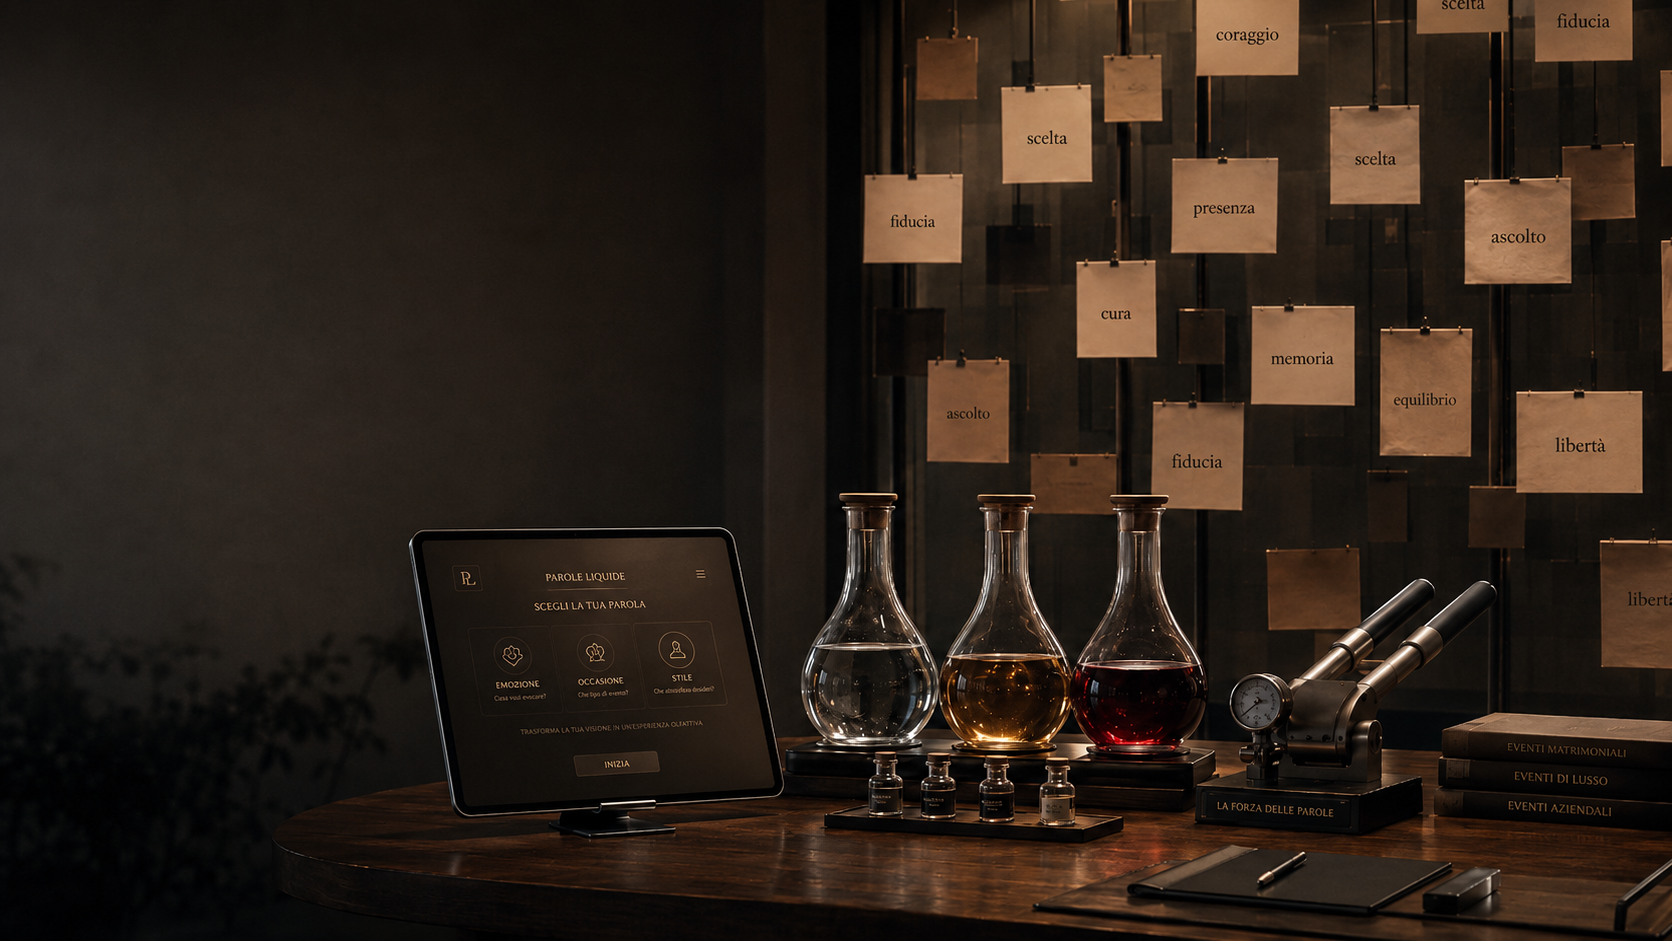
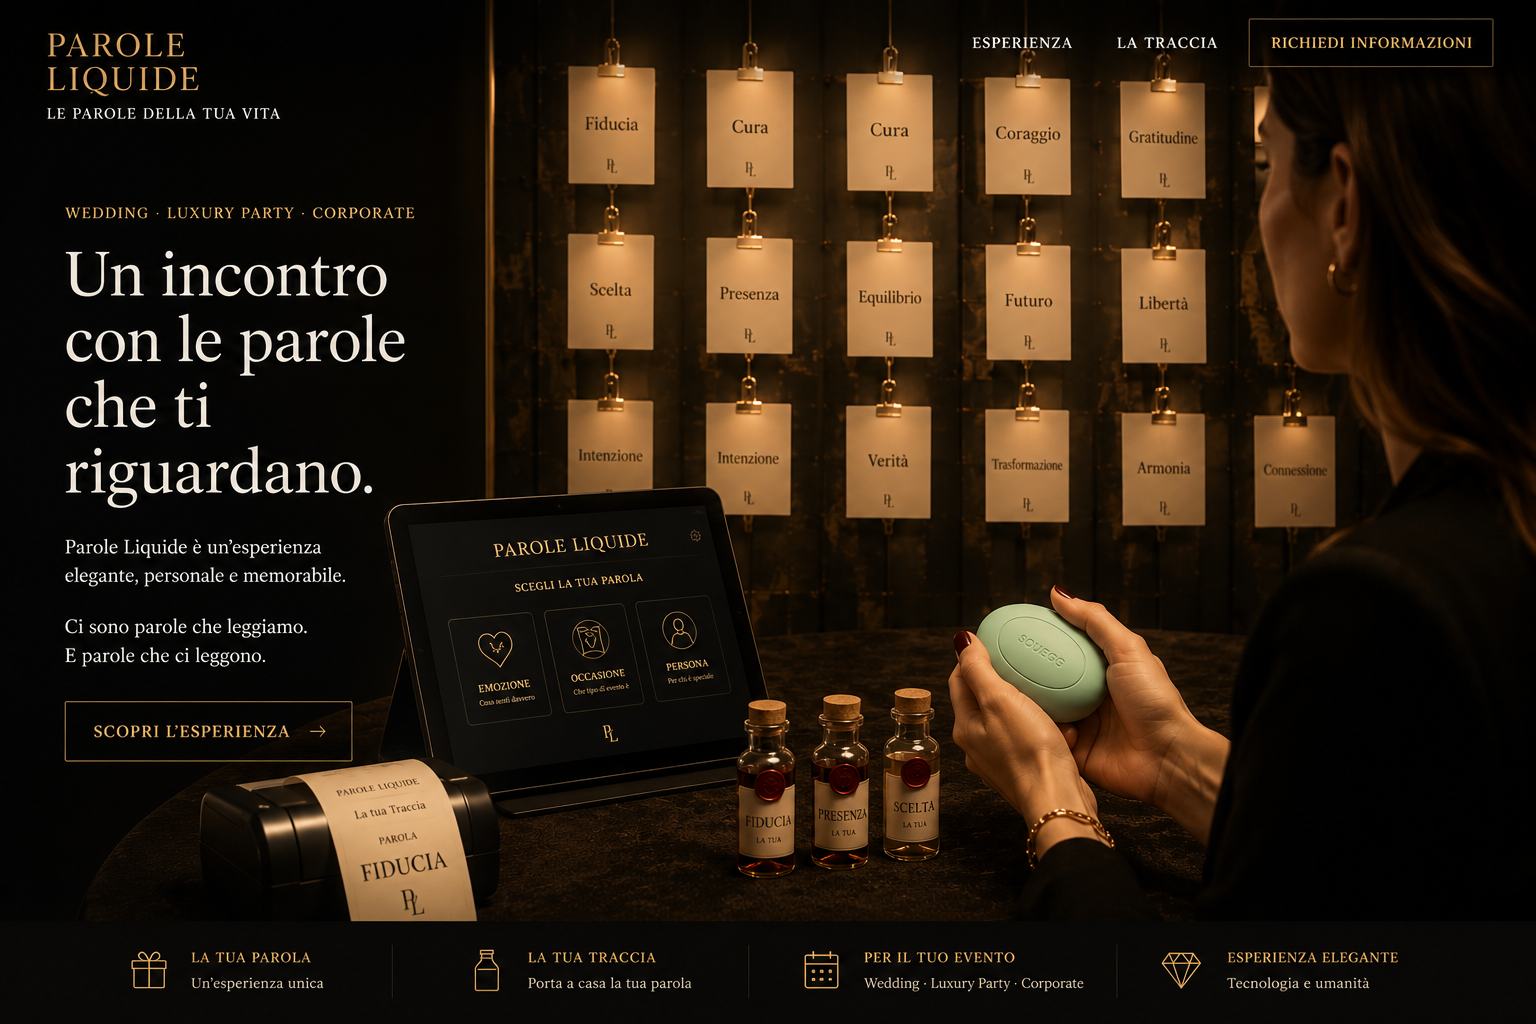
Add files via upload

diff --git a/index.html b/index.html
@@ -8,28 +8,21 @@
   <style>
     :root{
       --bg:#090806;
-      --bg-soft:#11100d;
       --paper:#f3ead9;
       --muted:#cfbea1;
       --gold:#d8b66a;
-      --gold-2:#b98c37;
       --line:rgba(216,182,106,.24);
       --card:rgba(255,255,255,.03);
     }
     *{box-sizing:border-box}
     html{scroll-behavior:smooth}
-    body{
-      margin:0;
-      background:var(--bg);
-      color:var(--paper);
-      font-family:Georgia,"Times New Roman",serif;
-    }
+    body{margin:0;background:var(--bg);color:var(--paper);font-family:Georgia,"Times New Roman",serif}
     img{max-width:100%;display:block}
     a{color:inherit;text-decoration:none}
     .wrap{max-width:1180px;margin:0 auto;padding:0 24px}
     header{
-      position:fixed; inset:0 0 auto 0; z-index:20;
-      background:linear-gradient(180deg, rgba(9,8,6,.92), rgba(9,8,6,.55), transparent);
+      position:fixed;inset:0 0 auto 0;z-index:20;
+      background:linear-gradient(180deg,rgba(9,8,6,.92),rgba(9,8,6,.5),transparent);
       padding:22px 0 34px;
     }
     .nav{display:flex;align-items:center;justify-content:space-between;gap:20px}
@@ -38,35 +31,29 @@
     .navlinks{display:flex;gap:24px;align-items:center;font-size:12px;letter-spacing:.12em;text-transform:uppercase;color:var(--muted)}
     .navlinks a:hover{color:var(--gold)}
     .btn{
-      display:inline-flex;align-items:center;justify-content:center;
-      min-height:46px;padding:0 20px;border:1px solid var(--line);
-      color:var(--gold);font-size:12px;letter-spacing:.12em;text-transform:uppercase;
-      background:rgba(9,8,6,.42)
+      display:inline-flex;align-items:center;justify-content:center;min-height:46px;padding:0 20px;
+      border:1px solid var(--line);color:var(--gold);font-size:12px;letter-spacing:.12em;
+      text-transform:uppercase;background:rgba(9,8,6,.42);cursor:pointer
     }
-    .btn.primary{background:linear-gradient(135deg, #dfc57c, #ae7f2e); color:#120f0a; border-color:transparent; font-weight:700}
+    .btn.primary{background:linear-gradient(135deg,#dfc57c,#ae7f2e);color:#120f0a;border-color:transparent;font-weight:700}
     .hero{
       min-height:100vh;
       background:
-        linear-gradient(90deg, rgba(9,8,6,.94) 0%, rgba(9,8,6,.82) 30%, rgba(9,8,6,.38) 56%, rgba(9,8,6,.72) 100%),
+        linear-gradient(90deg,rgba(9,8,6,.88) 0%,rgba(9,8,6,.58) 32%,rgba(9,8,6,.10) 68%,rgba(9,8,6,.34) 100%),
         url('hero-postazione.png') center center / cover no-repeat;
-      display:flex; align-items:center;
+      display:flex;align-items:center;
     }
-    .hero-inner{padding:140px 0 90px; max-width:520px}
-    h1{margin:0; font-size:clamp(44px, 6vw, 78px); line-height:1.02; font-weight:400}
-    .lead{margin:28px 0 0; font-size:22px; line-height:1.6; color:var(--muted)}
+    .hero-inner{padding:140px 0 90px;max-width:520px}
+    h1{margin:0;font-size:clamp(44px,6vw,78px);line-height:1.02;font-weight:400}
+    .eyebrow{color:var(--gold);font-size:12px;letter-spacing:.16em;text-transform:uppercase;margin-bottom:14px}
+    .lead{margin:28px 0 0;font-size:22px;line-height:1.6;color:var(--muted)}
     .cta{display:flex;flex-wrap:wrap;gap:12px;margin-top:34px}
     section{padding:88px 0;border-top:1px solid var(--line)}
     .grid-2{display:grid;grid-template-columns:1fr 1fr;gap:56px;align-items:center}
-    .eyebrow{color:var(--gold);font-size:12px;letter-spacing:.16em;text-transform:uppercase;margin-bottom:14px}
-    h2{margin:0;font-size:clamp(34px, 4.4vw, 58px);line-height:1.08;font-weight:400}
+    h2{margin:0;font-size:clamp(34px,4.4vw,58px);line-height:1.08;font-weight:400}
     .copy{font-size:21px;line-height:1.65;color:var(--muted)}
     .copy p:first-child{margin-top:0}
-    .visual{
-      border:1px solid var(--line);
-      background:var(--card);
-      padding:12px;
-    }
-    .visual img{width:100%;height:auto}
+    .visual{border:1px solid var(--line);background:var(--card);padding:12px}
     .steps{display:grid;grid-template-columns:repeat(4,1fr);gap:18px;margin-top:30px}
     .step{border-top:1px solid var(--line);padding-top:18px}
     .step b{display:block;color:var(--gold);font-size:12px;letter-spacing:.14em;text-transform:uppercase;font-weight:400;margin-bottom:12px}
@@ -74,146 +61,140 @@
     .contact{background:#0d0c0a}
     form{display:grid;gap:14px}
     input,textarea,select{
-      width:100%;
-      background:rgba(255,255,255,.04);
-      border:1px solid var(--line);
-      color:var(--paper);
-      padding:15px 14px;
-      font:16px Georgia,"Times New Roman",serif;
-      outline:none;
+      width:100%;background:rgba(255,255,255,.04);border:1px solid var(--line);color:var(--paper);
+      padding:15px 14px;font:16px Georgia,"Times New Roman",serif;outline:none
     }
     textarea{min-height:130px;resize:vertical}
-    input::placeholder, textarea::placeholder{color:#97866a}
+    input::placeholder,textarea::placeholder{color:#97866a}
     .fine{font-size:12px;line-height:1.5;color:#9f8e73}
     footer{padding:28px 0;border-top:1px solid var(--line);color:#98886f;font-size:14px}
     .foot{display:flex;justify-content:space-between;gap:16px;flex-wrap:wrap}
-    @media (max-width: 980px){
+    @media(max-width:980px){
       header{position:static;padding:18px 0}
       .navlinks{display:none}
-      .hero{min-height:auto}
+      .hero{min-height:auto;background-position:center center}
       .hero-inner{padding:58px 0 64px}
       .grid-2{grid-template-columns:1fr;gap:28px}
       section{padding:62px 0}
       .steps{grid-template-columns:1fr 1fr}
     }
-    @media (max-width: 560px){
+    @media(max-width:560px){
       .wrap{padding:0 18px}
       .lead{font-size:19px}
       .copy{font-size:18px}
       .steps{grid-template-columns:1fr}
       .cta{flex-direction:column;align-items:flex-start}
-      .btn{width:auto}
     }
   </style>
 </head>
 <body>
-  <header>
-    <div class="wrap nav">
-      <a href="#top" class="brand">Parole<br>Liquide<small>Le parole della tua vita</small></a>
-      <nav class="navlinks">
-        <a href="#esperienza">Esperienza</a>
-        <a href="#boccetta">La Traccia</a>
-        <a href="#contatti" class="btn">Richiedi informazioni</a>
-      </nav>
+<header>
+  <div class="wrap nav">
+    <a href="#top" class="brand">Parole<br>Liquide<small>Le parole della tua vita</small></a>
+    <nav class="navlinks">
+      <a href="#esperienza">Esperienza</a>
+      <a href="#boccetta">La Traccia</a>
+      <a href="#contatti" class="btn">Richiedi informazioni</a>
+    </nav>
+  </div>
+</header>
+
+<main id="top">
+  <section class="hero">
+    <div class="wrap">
+      <div class="hero-inner">
+        <div class="eyebrow">Wedding · Luxury party · Corporate</div>
+        <h1>Un incontro<br>con le parole<br>che ti riguardano.</h1>
+        <div class="lead">
+          Parole Liquide è un'esperienza elegante, personale e memorabile.
+          <br><br>
+          Ci sono parole che leggiamo. E parole che ci leggono.
+        </div>
+        <div class="cta">
+          <a href="#contatti" class="btn primary">Richiedi informazioni</a>
+          <a href="#esperienza" class="btn">Scopri l'esperienza</a>
+        </div>
+      </div>
     </div>
-  </header>
+  </section>
 
-  <main id="top">
-    <section class="hero">
-      <div class="wrap">
-        <div class="hero-inner">
-          <div class="eyebrow">Wedding · Luxury party · Corporate</div>
-          <h1>Un incontro<br>con le parole<br>che ti riguardano.</h1>
-          <div class="lead">
-            Parole Liquide è un'esperienza elegante, personale e memorabile.
-            <br><br>
-            Ci sono parole che leggiamo. E parole che ci leggono.
-          </div>
-          <div class="cta">
-            <a href="#contatti" class="btn primary">Richiedi informazioni</a>
-            <a href="#esperienza" class="btn">Scopri l'esperienza</a>
-          </div>
+  <section id="esperienza">
+    <div class="wrap grid-2">
+      <div>
+        <div class="eyebrow">L'esperienza</div>
+        <h2>Parole Liquide è un'esperienza da vivere.</h2>
+        <div class="copy">
+          <p>Il consultante incontra alcune parole, le tiene tra le mani e osserva la propria risposta corporea.</p>
+          <p>Alla fine porta con sé una Traccia personale: tre parole, una boccetta, uno scontrino.</p>
         </div>
       </div>
-    </section>
-
-    <section id="esperienza">
-      <div class="wrap grid-2">
-        <div>
-          <div class="eyebrow">L'esperienza</div>
-          <h2>Parole Liquide è un'esperienza da vivere.</h2>
-          <div class="copy">
-            <p>Il consultante incontra alcune parole, le tiene tra le mani e osserva la propria risposta corporea.</p>
-            <p>Alla fine porta con sé una Traccia personale: tre parole, una boccetta, uno scontrino.</p>
-          </div>
-        </div>
-        <div class="visual">
-          <img src="mano-squegg.png" alt="Mano femminile che stringe il dinamometro Squegg durante l'esperienza Parole Liquide">
-        </div>
+      <div class="visual">
+        <img src="mano-squegg.png" alt="Mano femminile che stringe lo Squegg durante l'esperienza Parole Liquide">
       </div>
-
-      <div class="wrap steps">
-        <div class="step"><b>01. Accoglienza</b><span>Una postazione elegante e un invito discreto a fermarsi.</span></div>
-        <div class="step"><b>02. Parole</b><span>Parole sensibili e parole-risorsa vengono testate una alla volta.</span></div>
-        <div class="step"><b>03. Traccia</b><span>Emergono le tre parole da portare con sé.</span></div>
-        <div class="step"><b>04. Ricordo</b><span>La boccetta finale diventa un oggetto personale dell'esperienza.</span></div>
-      </div>
-    </section>
-
-    <section id="boccetta">
-      <div class="wrap grid-2">
-        <div class="visual">
-          <img src="boccetta-fiducia.png" alt="Boccetta Parole Liquide in primo piano, sigillata con ceralacca e con etichetta FIDUCIA">
-        </div>
-        <div>
-          <div class="eyebrow">La Traccia</div>
-          <h2>Una piccola boccetta.<br>Una parola che resta.</h2>
-          <div class="copy">
-            <p>Al termine dell'esperienza, il consultante riceve una boccetta sigillata: un piccolo oggetto da custodire, ricordare, fotografare.</p>
-            <p>Non è un gadget. È la forma finale della Traccia emersa durante l'incontro.</p>
-          </div>
-        </div>
-      </div>
-    </section>
-
-    <section class="contact" id="contatti">
-      <div class="wrap grid-2">
-        <div>
-          <div class="eyebrow">Contatti</div>
-          <h2>Richiedi informazioni.</h2>
-          <div class="copy">
-            <p>Scrivi per disponibilità, formule evento e collaborazioni con agenzie.</p>
-            <p>Paolo Musetti<br>paroleliquide.it</p>
-          </div>
-        </div>
-        <form action="https://formsubmit.co/[email redacted]" method="POST">
-          <input type="hidden" name="_subject" value="Nuova richiesta da paroleliquide.it">
-          <input type="hidden" name="_template" value="table">
-          <input type="hidden" name="_captcha" value="false">
-          <input type="text" name="nome" placeholder="Nome e cognome" required>
-          <input type="email" name="email" placeholder="Email" required>
-          <input type="tel" name="telefono" placeholder="Telefono / WhatsApp">
-          <select name="tipo_evento">
-            <option value="">Tipo di evento</option>
-            <option>Wedding</option>
-            <option>Luxury party</option>
-            <option>Corporate</option>
-            <option>Agenzia eventi</option>
-            <option>Altro</option>
-          </select>
-          <textarea name="messaggio" placeholder="Raccontami data, luogo e tipo di evento"></textarea>
-          <button type="submit" class="btn primary">Invia richiesta</button>
-          <div class="fine">Il form usa un servizio esterno compatibile con siti statici. Alla prima richiesta potrebbe essere necessaria una conferma via email.</div>
-        </form>
-      </div>
-    </section>
-  </main>
-
-  <footer>
-    <div class="wrap foot">
-      <div>© Parole Liquide — Paolo Musetti</div>
-      <div>WhatsApp: [phone redacted]</div>
     </div>
-  </footer>
+
+    <div class="wrap steps">
+      <div class="step"><b>01. Accoglienza</b><span>Una postazione elegante e un invito discreto a fermarsi.</span></div>
+      <div class="step"><b>02. Parole</b><span>Parole sensibili e parole-risorsa vengono testate una alla volta.</span></div>
+      <div class="step"><b>03. Traccia</b><span>Emergono le tre parole da portare con sé.</span></div>
+      <div class="step"><b>04. Ricordo</b><span>La boccetta finale diventa un oggetto personale dell'esperienza.</span></div>
+    </div>
+  </section>
+
+  <section id="boccetta">
+    <div class="wrap grid-2">
+      <div class="visual">
+        <img src="boccetta-fiducia.png" alt="Boccetta Parole Liquide sigillata con ceralacca ed etichetta FIDUCIA">
+      </div>
+      <div>
+        <div class="eyebrow">La Traccia</div>
+        <h2>Una piccola boccetta.<br>Una parola che resta.</h2>
+        <div class="copy">
+          <p>Al termine dell'esperienza, il consultante riceve una boccetta sigillata: un piccolo oggetto da custodire, ricordare, fotografare.</p>
+          <p>Non è un gadget. È la forma finale della Traccia emersa durante l'incontro.</p>
+        </div>
+      </div>
+    </div>
+  </section>
+
+  <section class="contact" id="contatti">
+    <div class="wrap grid-2">
+      <div>
+        <div class="eyebrow">Contatti</div>
+        <h2>Richiedi informazioni.</h2>
+        <div class="copy">
+          <p>Scrivi per disponibilità, formule evento e collaborazioni con agenzie.</p>
+          <p>Paolo Musetti<br>paroleliquide.it</p>
+        </div>
+      </div>
+      <form action="https://formsubmit.co/[email redacted]" method="POST">
+        <input type="hidden" name="_subject" value="Nuova richiesta da paroleliquide.it">
+        <input type="hidden" name="_template" value="table">
+        <input type="hidden" name="_captcha" value="false">
+        <input type="text" name="nome" placeholder="Nome e cognome" required>
+        <input type="email" name="email" placeholder="Email" required>
+        <input type="tel" name="telefono" placeholder="Telefono / WhatsApp">
+        <select name="tipo_evento">
+          <option value="">Tipo di evento</option>
+          <option>Wedding</option>
+          <option>Luxury party</option>
+          <option>Corporate</option>
+          <option>Agenzia eventi</option>
+          <option>Altro</option>
+        </select>
+        <textarea name="messaggio" placeholder="Raccontami data, luogo e tipo di evento"></textarea>
+        <button type="submit" class="btn primary">Invia richiesta</button>
+        <div class="fine">Il form usa un servizio esterno compatibile con siti statici. Alla prima richiesta potrebbe essere necessaria una conferma via email.</div>
+      </form>
+    </div>
+  </section>
+</main>
+
+<footer>
+  <div class="wrap foot">
+    <div>© Parole Liquide — Paolo Musetti</div>
+    <div>WhatsApp: [phone redacted]</div>
+  </div>
+</footer>
 </body>
 </html>